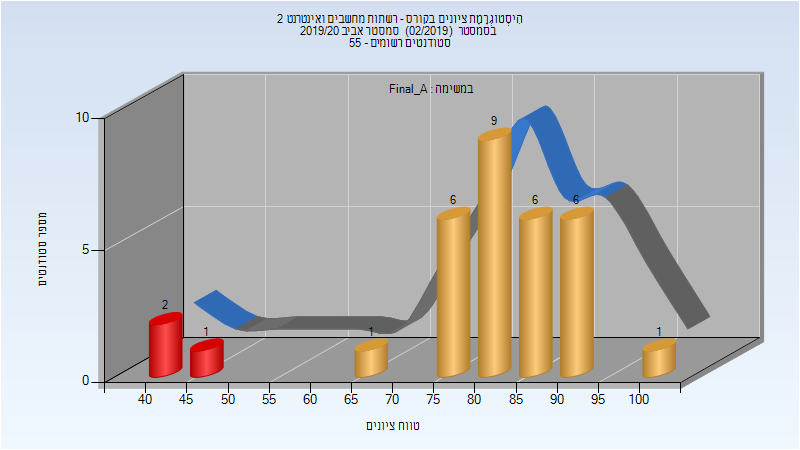
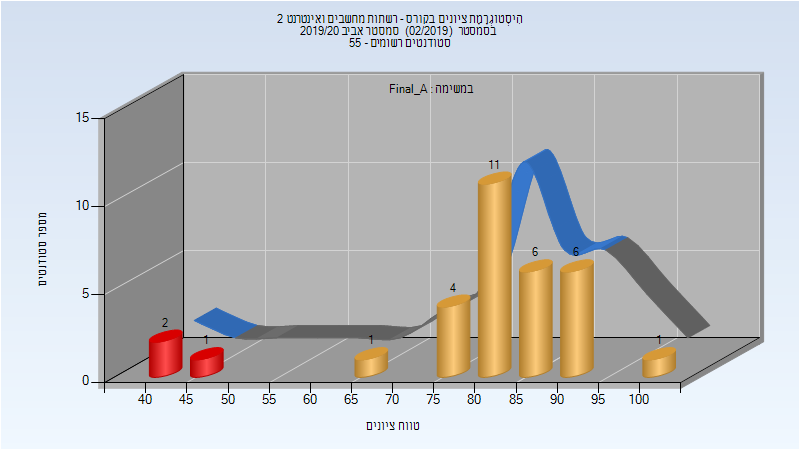
Deploy michael-maltsev/technion-histograms to github.com/michael-maltsev/technion-histograms.git:gh-pages

diff --git a/044158/index.html b/044158/index.html
@@ -135,5 +135,31 @@
 </tr>
 </tbody>
 </table>
+<h3>סופי</h3>
+<p><img src="201902/Finals.png" alt="201902 Finals" /></p>
+<table>
+<thead>
+<tr>
+<th>סטודנטים</th>
+<th>עברו/נכשלו</th>
+<th>אחוז עוברים</th>
+<th>ציון מינימלי</th>
+<th>ציון מקסימלי</th>
+<th>ממוצע</th>
+<th>חציון</th>
+</tr>
+</thead>
+<tbody>
+<tr>
+<td>49</td>
+<td>49/0</td>
+<td>100</td>
+<td>93</td>
+<td>100</td>
+<td>96.735</td>
+<td>97</td>
+</tr>
+</tbody>
+</table>
   </body>
 </html>

diff --git a/046002/index.html b/046002/index.html
@@ -635,5 +635,31 @@
 </tr>
 </tbody>
 </table>
+<h3>סופי</h3>
+<p><img src="201902/Finals.png" alt="201902 Finals" /></p>
+<table>
+<thead>
+<tr>
+<th>סטודנטים</th>
+<th>עברו/נכשלו</th>
+<th>אחוז עוברים</th>
+<th>ציון מינימלי</th>
+<th>ציון מקסימלי</th>
+<th>ממוצע</th>
+<th>חציון</th>
+</tr>
+</thead>
+<tbody>
+<tr>
+<td>33</td>
+<td>31/2</td>
+<td>94</td>
+<td>44</td>
+<td>99</td>
+<td>80.364</td>
+<td>85</td>
+</tr>
+</tbody>
+</table>
   </body>
 </html>

diff --git a/046005/index.html b/046005/index.html
@@ -655,7 +655,7 @@
 <td>91</td>
 <td>41</td>
 <td>100</td>
-<td>75</td>
+<td>75.469</td>
 <td>77</td>
 </tr>
 </tbody>
@@ -681,7 +681,7 @@
 <td>91</td>
 <td>41</td>
 <td>100</td>
-<td>80.031</td>
+<td>80.344</td>
 <td>83.5</td>
 </tr>
 </tbody>

diff --git a/046005/README.md b/046005/README.md
@@ -201,7 +201,7 @@
 
 | סטודנטים | עברו/נכשלו | אחוז עוברים | ציון מינימלי | ציון מקסימלי | ממוצע | חציון |
 | ---- | ---- | ---- | ---- | ---- | ---- | ---- |
-| 32 | 29/3 | 91 | 41 | 100 | 75 | 77 |
+| 32 | 29/3 | 91 | 41 | 100 | 75.469 | 77 |
 
 ### סופי מועד א'
 
@@ -209,7 +209,7 @@
 
 | סטודנטים | עברו/נכשלו | אחוז עוברים | ציון מינימלי | ציון מקסימלי | ממוצע | חציון |
 | ---- | ---- | ---- | ---- | ---- | ---- | ---- |
-| 32 | 29/3 | 91 | 41 | 100 | 80.031 | 83.5 |
+| 32 | 29/3 | 91 | 41 | 100 | 80.344 | 83.5 |
 
 ### סופי
 

diff --git a/044158/README.md b/044158/README.md
@@ -38,3 +38,11 @@
 | ---- | ---- | ---- | ---- | ---- | ---- | ---- |
 | 52 | 52/0 | 100 | 93 | 100 | 96.635 | 97 |
 
+### סופי
+
+![201902 Finals](201902/Finals.png)
+
+| סטודנטים | עברו/נכשלו | אחוז עוברים | ציון מינימלי | ציון מקסימלי | ממוצע | חציון |
+| ---- | ---- | ---- | ---- | ---- | ---- | ---- |
+| 49 | 49/0 | 100 | 93 | 100 | 96.735 | 97 |
+

diff --git a/046002/README.md b/046002/README.md
@@ -196,3 +196,11 @@
 | ---- | ---- | ---- | ---- | ---- | ---- | ---- |
 | 33 | 31/2 | 94 | 44 | 99 | 80.364 | 85 |
 
+### סופי
+
+![201902 Finals](201902/Finals.png)
+
+| סטודנטים | עברו/נכשלו | אחוז עוברים | ציון מינימלי | ציון מקסימלי | ממוצע | חציון |
+| ---- | ---- | ---- | ---- | ---- | ---- | ---- |
+| 33 | 31/2 | 94 | 44 | 99 | 80.364 | 85 |
+
